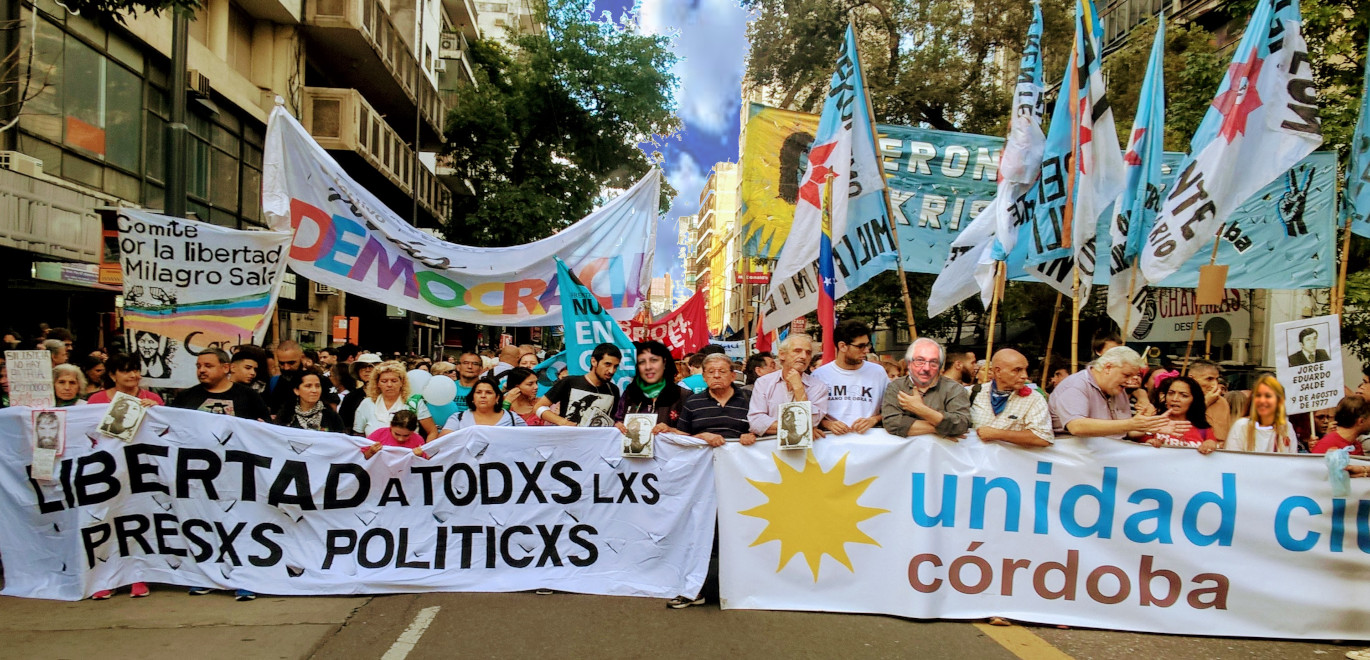
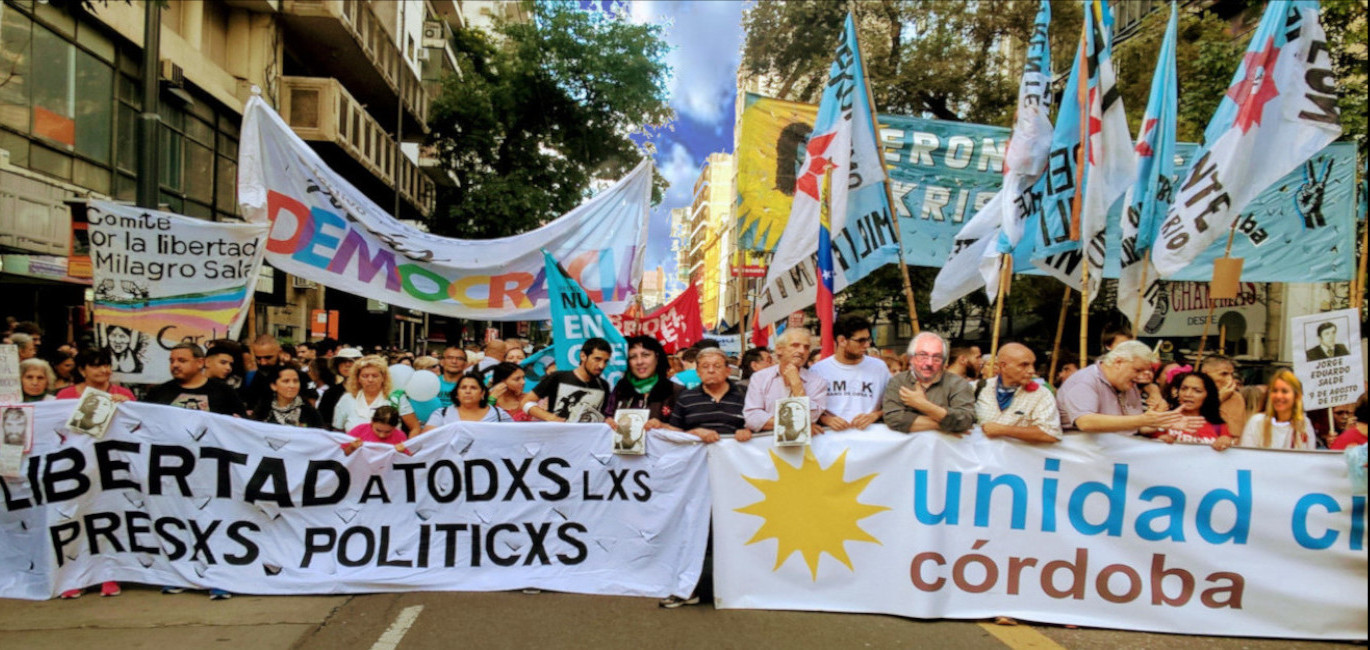
actualize css y imagen portada

diff --git a/estilos.css b/estilos.css
@@ -9,7 +9,7 @@
    padding: 0px;
    margin: 0px;
    background-image: url(imagenes/portada\ 1.jpg);
-   height: 630px;
+   height: 620px;
    padding: 0px 0px;
    }
    /*navegacion*/
@@ -29,16 +29,16 @@
       /*section*/
     div.section{
       width: 100%;
-      height: 520px;
+      height: 490px;
       margin-top: 30px;
     }
    .mi-logo1{
     margin-top: 10px;
     margin-left: 70px;
     width: 250px;
-    height: 300px;
+    height: 290px;
     float: left;
-    }
+  }
    .videos1{ 
     margin-top: 80px;
     margin-left: 140px;
@@ -61,7 +61,7 @@
     }
     /*enlaces*/
     div .enlaces{
-      margin-top: 75px;
+      margin-top: 5px;
       width: 100%;
       height: 60px;
       display: flex;
@@ -72,28 +72,27 @@
       float: left;
     }
     .e-guevara{
-      margin-left: 680px;
+      margin-left: 625px;
     }
     .e-guevara:hover{
-      border-bottom: solid 2px white;
+      border-top: solid 2px white;
     }
     .e-fernandez{
-      margin-left: 220px;
+      margin-left: 236px;
     }
     .e-fernandez:hover{
-      border-bottom: solid 2px white;
+      border-top: solid 2px white;
     }
-   
-    .g-esteves{
-      padding-top: 26px;
-      margin-left: 300px;
+     .g-esteves{
+      padding-top: 3px;
+      margin-left: 328px;
     }
     .g-esteves:hover{
       border-bottom: solid 2px white;
     }
    /*footer*/
      .footer{
-      margin-top: 15px;
+      margin-top: 5px;
       margin-left: 0px;
       margin-bottom: 10px;
       padding-top: 3px;
@@ -108,8 +107,9 @@
     margin-left: 70px;
     }
     .copy{
-      margin-left: 740px;
-      font-size: 20px ;
+      margin-left: 710px;
+      font-size: 20px;
+      background-color: rgba(120, 161, 236, 0.349) ;
       color: black;
       text-align: left;
     }
